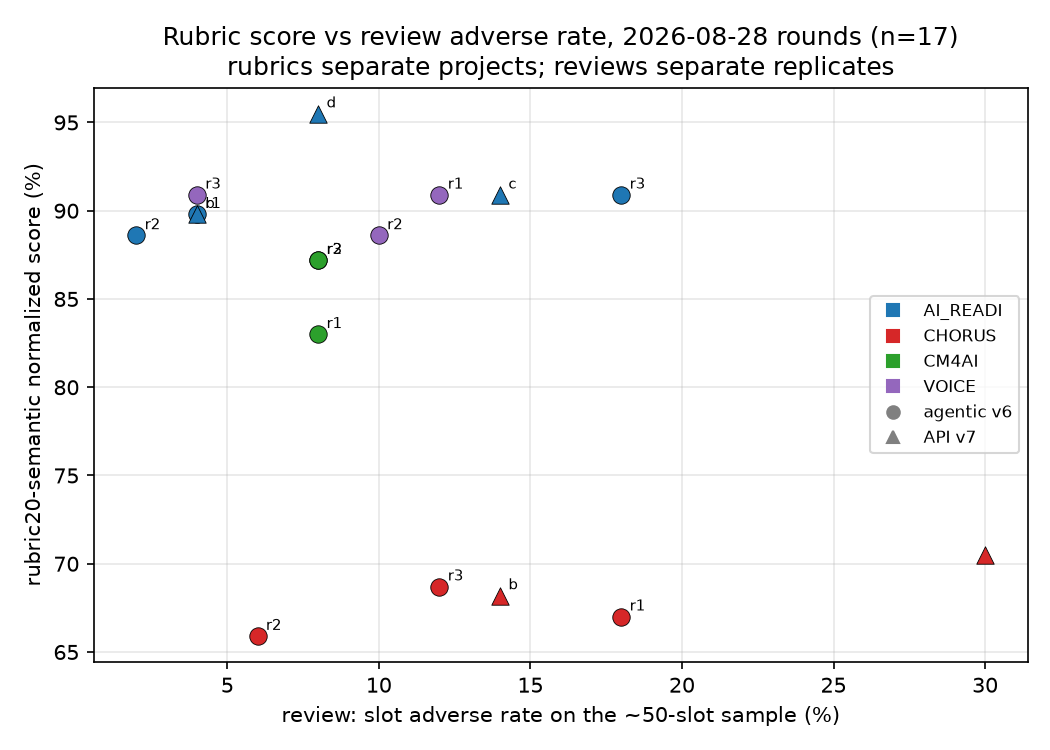
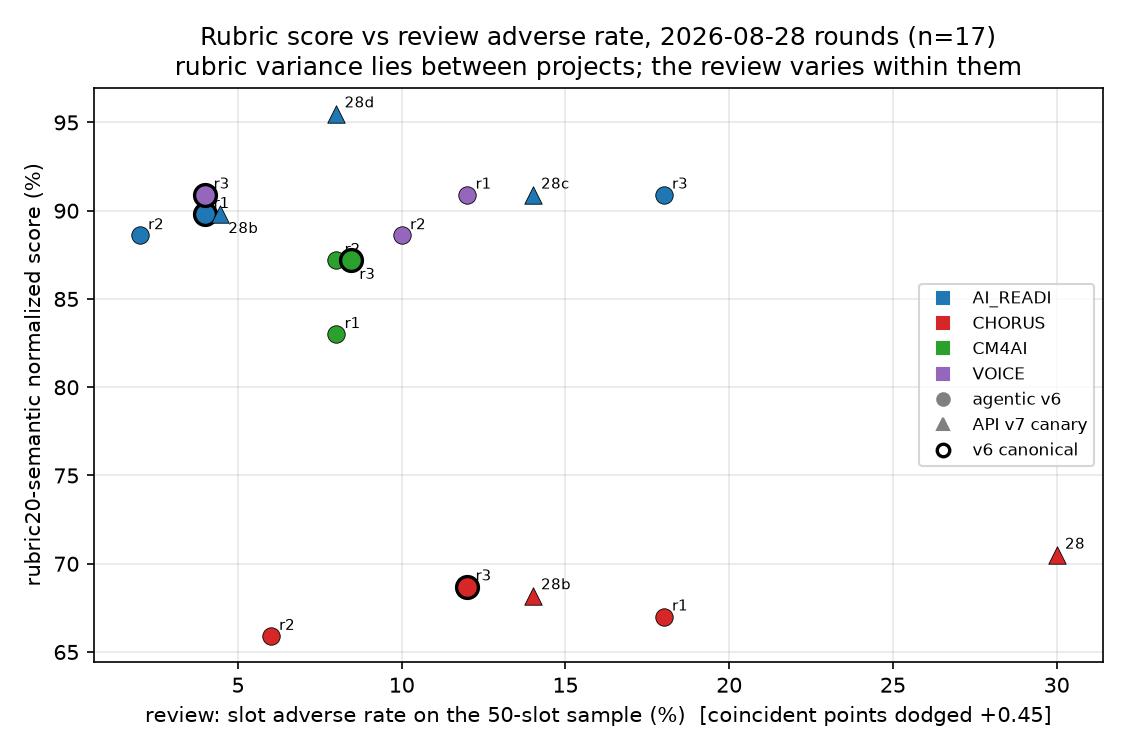
Cross-read corrections from adversarial review (#816-#820)
The pooled rubric-vs-adverse correlation hides a Simpson structure: within
project the relation is non-negative (AI_READI +0.81, CHORUS +0.60) —
inference fills rubric sub-elements, so unsupported content scores. The
false slots=leaves identity is removed (selection counts core slots:
82/79/80, 47/43/50) and the #660 caveat restated on the criterion actually
used, naming that selection picked the worse-sampled replicate twice under
the slot-adverse metric. Denominator prose, SE figures, rule denominators,
v6-only spread, and the #158/#159 misattribution fixed; figure dodges
coincident points, rings the canonical selections, labels CHORUS 28.

diff --git a/notes/cross_read_rubrics_vs_reviews_2026-08-30.md b/notes/cross_read_rubrics_vs_reviews_2026-08-30.md
@@ -14,9 +14,15 @@ the numbers?
 
 `r10`/`r20` are the rubric normalized percentages. `leaves` is
 `populated_leaves` of the full record. `slot adverse` counts non-affirmative
-verdicts on the ~50 sampled slots (weak + misread + unsupported + inferred +
-not_in_bundle); `rate` divides by the slots actually sampled. `rules
-violated` is out of 15 (v6) or 16 (v7).
+verdicts on the 50 sampled receipted + receiptless slots (weak + misread +
+unsupported + inferred + not_in_bundle); `rate` divides by those 50 — the
+`slot_reshaped` items some v7 packs also carry (including CHORUS 28b's two
+`cannot_tell`) are excluded from both numerator and denominator. This is a
+narrower count than the `adverse` column of the review-pass note, which adds
+rule and chunk items; per record, slot adverse + rules violated (+1
+`missed_content` chunk for 28d) equals that note's `adverse` exactly.
+`rules violated` is out of 15 (v6) or 16 (v7), of which 1–2 are
+`not_applicable` for some CHORUS records.
 
 | arm | project | rep | r10 | r20 | leaves | slot adverse | rate | rules violated |
 |---|---|---|---|---|---|---|---|---|
@@ -42,8 +48,7 @@ violated` is out of 15 (v6) or 16 (v7).
 
 ## What correlates with what
 
-Spearman rank correlations (all 17; v6-only in parentheses to remove the arm
-confound):
+Spearman rank correlations (all 17; v6-only in parentheses):
 
 | pair | ρ |
 |---|---|
@@ -55,68 +60,94 @@ confound):
 | r20 vs rules violated | +0.16 (−0.08) |
 | slot adverse rate vs leaves | −0.43 (−0.27) |
 
-Three readings, all visible in the raw table without the statistics:
+And within project, where the confound of bundle richness is held fixed —
+ρ(r20, slot adverse rate):
+
+| project | all records | v6 only |
+|---|---|---|
+| AI_READI | **+0.81** (n=6) | +1.00 (n=3) |
+| CHORUS | +0.60 (n=5) | +0.50 (n=3) |
+| CM4AI | undefined — all three rates are 8% | — |
+| VOICE | 0.00 (n=3) | 0.00 (n=3) |
+
+Three readings:
 
 1. **The rubrics measure the project, not the record.** Both rubrics
    correlate strongly with each other and with leaf coverage, and their
    variance is almost entirely between projects: every CHORUS record scores
    53–71 and every AI_READI/VOICE record 88–100, whichever arm and whatever
-   its review found. Within a project the rubric spread across replicates is
-   ≤4.2 points of r20 while the review adverse rate spans 2%→18% (AI_READI
-   v6) — the rubric cannot see the difference between the cleanest and the
-   most inference-laden replicate of the same project.
-2. **The review is near-orthogonal to the rubrics.** ρ(rubric, adverse) is
-   −0.3 to −0.1 overall and −0.2 to 0.0 within v6 — nothing, at this n.
-   The two clearest single records: **AI_READI v6 rep3** has the *highest*
-   r20 of its triplet (90.9) and the *worst* adverse rate (18%: five
-   inferred values, one not in the bundle, three weak receipts); **AI_READI
-   v7 28d** has the highest r20 of all seventeen (95.5) alongside 9 of 16
-   rules violated, an ungrounded ROR attachment, and the pass's only
-   `missed_content` chunk. Unsupported content *helps* a coverage-shaped
-   score: an inferred `data_type` fills a sub-element the rubric awards.
-3. **Rule violations are invisible to the rubrics** (ρ ≈ 0, sign unstable).
-   The v7 canaries average 7 violations against v6's 3.1 — plan-as-done,
-   Person-ranged strings, absence statements — with rubric scores
-   indistinguishable from v6's on the same projects.
+   its review found. Within the v6 replicates of a project the r20 spread is
+   ≤4.2 points (across arms AI_READI spans 6.9, but the v7 canaries are not
+   replicates of the v6 runs) while the adverse rate spans 2%→18% within
+   AI_READI v6 alone.
+2. **The pooled rubric-vs-adverse correlation is an artifact of project
+   structure, and within project the relation leans the *other way*.** The
+   pooled −0.20/−0.32 (95% CI on −0.32 at n=17 is roughly [−0.69, +0.19] —
+   compatible with anything from moderate-negative to null) exists because
+   CHORUS is both the poorest-documented and the most adverse-prone project.
+   Hold the project fixed and the sign flips or vanishes: +0.81 across the
+   six AI_READI records, +0.60 across the five CHORUS, 0 for VOICE, flat for
+   CM4AI. The flagship pair is the same fact seen record-by-record:
+   **AI_READI v6 rep3** has the highest r20 of its triplet (90.9) and the
+   worst adverse rate (18%: five inferred, one not in the bundle, three
+   weak); **AI_READI v7 28d** has the highest r20 of all seventeen (95.5)
+   beside 9 of 16 rules violated, an ungrounded ROR attachment, and the
+   pass's only `missed_content` chunk. The mechanism is visible in the
+   verdicts: an inferred `data_type` or a plan-as-done sentence *fills a
+   rubric sub-element* — unsupported content is coverage to a
+   coverage-shaped score. At n=3–6 per project none of this is conclusive;
+   the direction is consistent, the magnitudes are not trustworthy.
+3. **Rule violations are invisible to the rubrics** (pooled ρ ≈ 0, sign
+   unstable across subsets). The v7 canaries average 7.0 violations against
+   v6's 3.1 — plan-as-done, Person-ranged strings, absence statements — with
+   rubric scores indistinguishable from v6's on the same projects.
 
-So the asserted claim in the interpretation note is now shown: the rubrics
-reward what the bundle makes possible (coverage of rubric elements), the
-reviews penalise what the record did with it (inference, laundered
-receipts, misfiled content), and per record they carry close to independent
-information. Neither subsumes the other; a record needs both numbers.
+So the claim as originally asserted was half right. The rubrics do reward
+what the bundle makes possible. But the reviews are not merely orthogonal:
+within a project, the records that scored *best* on the rubrics tended to
+carry *more* unsupported content, because inference inflates both at once.
+The two instruments do not disagree about quality — they answer different
+questions, and only the review's question is about grounding.
 
 ![r20 vs review adverse rate](figures/cross_read_r20_vs_adverse.png)
+
+(Coincident points — CM4AI r2/r3, AI_READI v6 rep1 / v7 28b — are dodged
++0.45 on the x-axis; ringed markers are the v6 canonical selections.)
 
 ## Caveats
 
 - n=17, and only 5 on the v7 side — three of them AI_READI canaries under
   successive instrument fixes, two CHORUS. Arm-level conclusions wait for
-  Monday's 12-record v7 fan-out; the rubric-vs-review orthogonality does not,
-  since it holds within v6 alone (n=12).
-- The adverse rate sits on a ~50-slot sample per record: its binomial
-  standard error is ±4–6 percentage points, so single-record rates of 4% vs
-  8% do not separate; 2–4% vs 18% does.
+  the full v7 fan-out; the within-project findings rest on n=3–6 cells.
+- The adverse rate sits on a 50-slot sample per record. Binomial standard
+  error is ±2–3 percentage points at the low observed rates (2–8%) and
+  ±5–6.5pp toward 18–30%; 4% vs 8% does not separate, 2–4% vs 18% does
+  (~2.3σ).
 - One reviewer per record, no inter-rater figure; the rubric evaluations are
   single runs of the rubric agents. Both instruments are Claude judging
   Claude.
-- `slots` (the selection metric) and `leaves` are equal per record here, so
-  the canonical selection's coverage criterion inherits the rubric's
-  blindness: it, too, cannot distinguish AI_READI rep1 (4%) from a
-  hypothetical rep at 18% unless validation fails. #660 (quality metrics
-  unused in selection) now has the concrete form: the *review adverse rate*
-  is the number the selection has no view of. In this round it happened not
-  to matter — every selected replicate is also at or tied for the fewest
-  adverse items — but nothing enforced that.
+- The canonical-selection metric is **not** the `leaves` column: selection
+  counts core-record slots (AI_READI 82/79/80, CHORUS 47/43/50), and for
+  CHORUS the two rank the replicates almost inversely (slots rep3>rep1>rep2;
+  leaves rep2>rep3>rep1). What is true — by construction, not by this data —
+  is that the criterion (validates → core slots → label) has no view of the
+  adverse rate. Under the review-pass note's total-adverse count every
+  selected replicate is at or tied for fewest; under this note's slot-adverse
+  metric the selection picked the worse-sampled replicate twice (AI_READI
+  rep1 at 2 vs rep2 at 1; CHORUS rep3 at 6 vs rep2 at 3), both differences
+  inside sampling noise. That is #660's concrete form: nothing enforced even
+  the ties.
 
 ## What this implies for the instruments (feeds the issue list)
 
-- The rubric agents evaluate quality *given the documentation*; they do not
-  check grounding and should not be read as a correctness signal (#158/#159
-  scope this; no new issue).
+- The rubric agents evaluate documentation quality given the bundle; they do
+  not check grounding, and within-project their scores lean *toward*
+  inference-heavy records. They should not be read as a correctness signal.
 - The review's slot-level adverse rate is the only per-record correctness
   number the pipeline has. If it is to gate or rank anything (e.g. join the
   canonical criterion per #660), it first needs the sampling noise stated
-  (±5pp) and ideally a second reviewer on disagreement-prone records.
+  (±2–6pp depending on rate) and ideally a second reviewer on
+  disagreement-prone records.
 - The deterministic receipt validator sits between the two: it verifies
   attribution, not support. The three receipt-shaped gaps it could close
   (#804 one-leaf entry receipts, #806 irrelevant-verbatim flags, #807 v7
